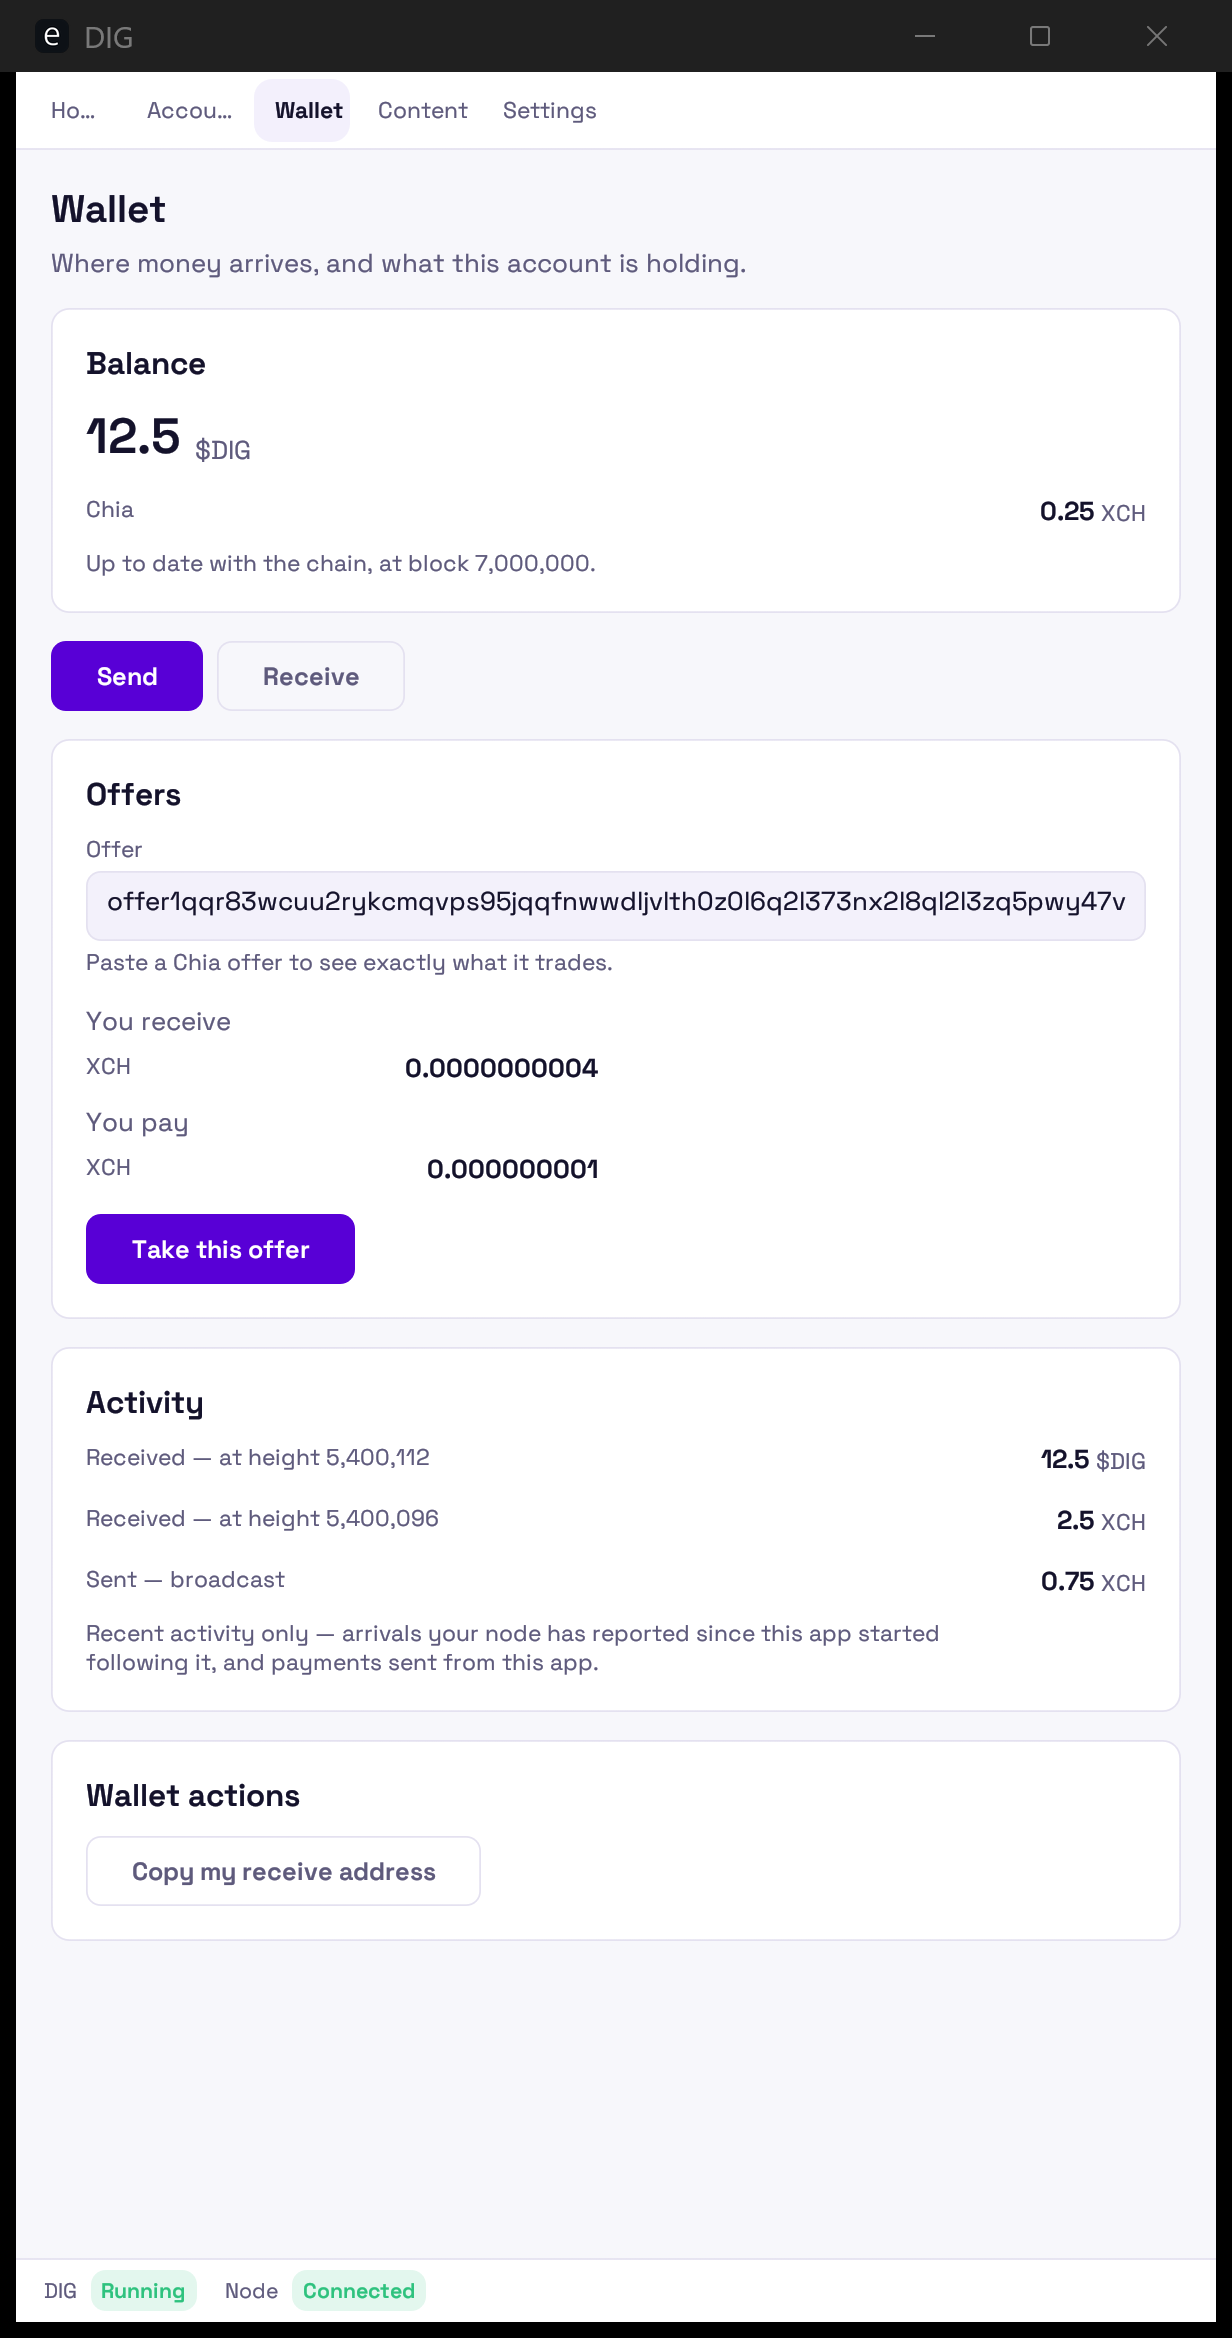
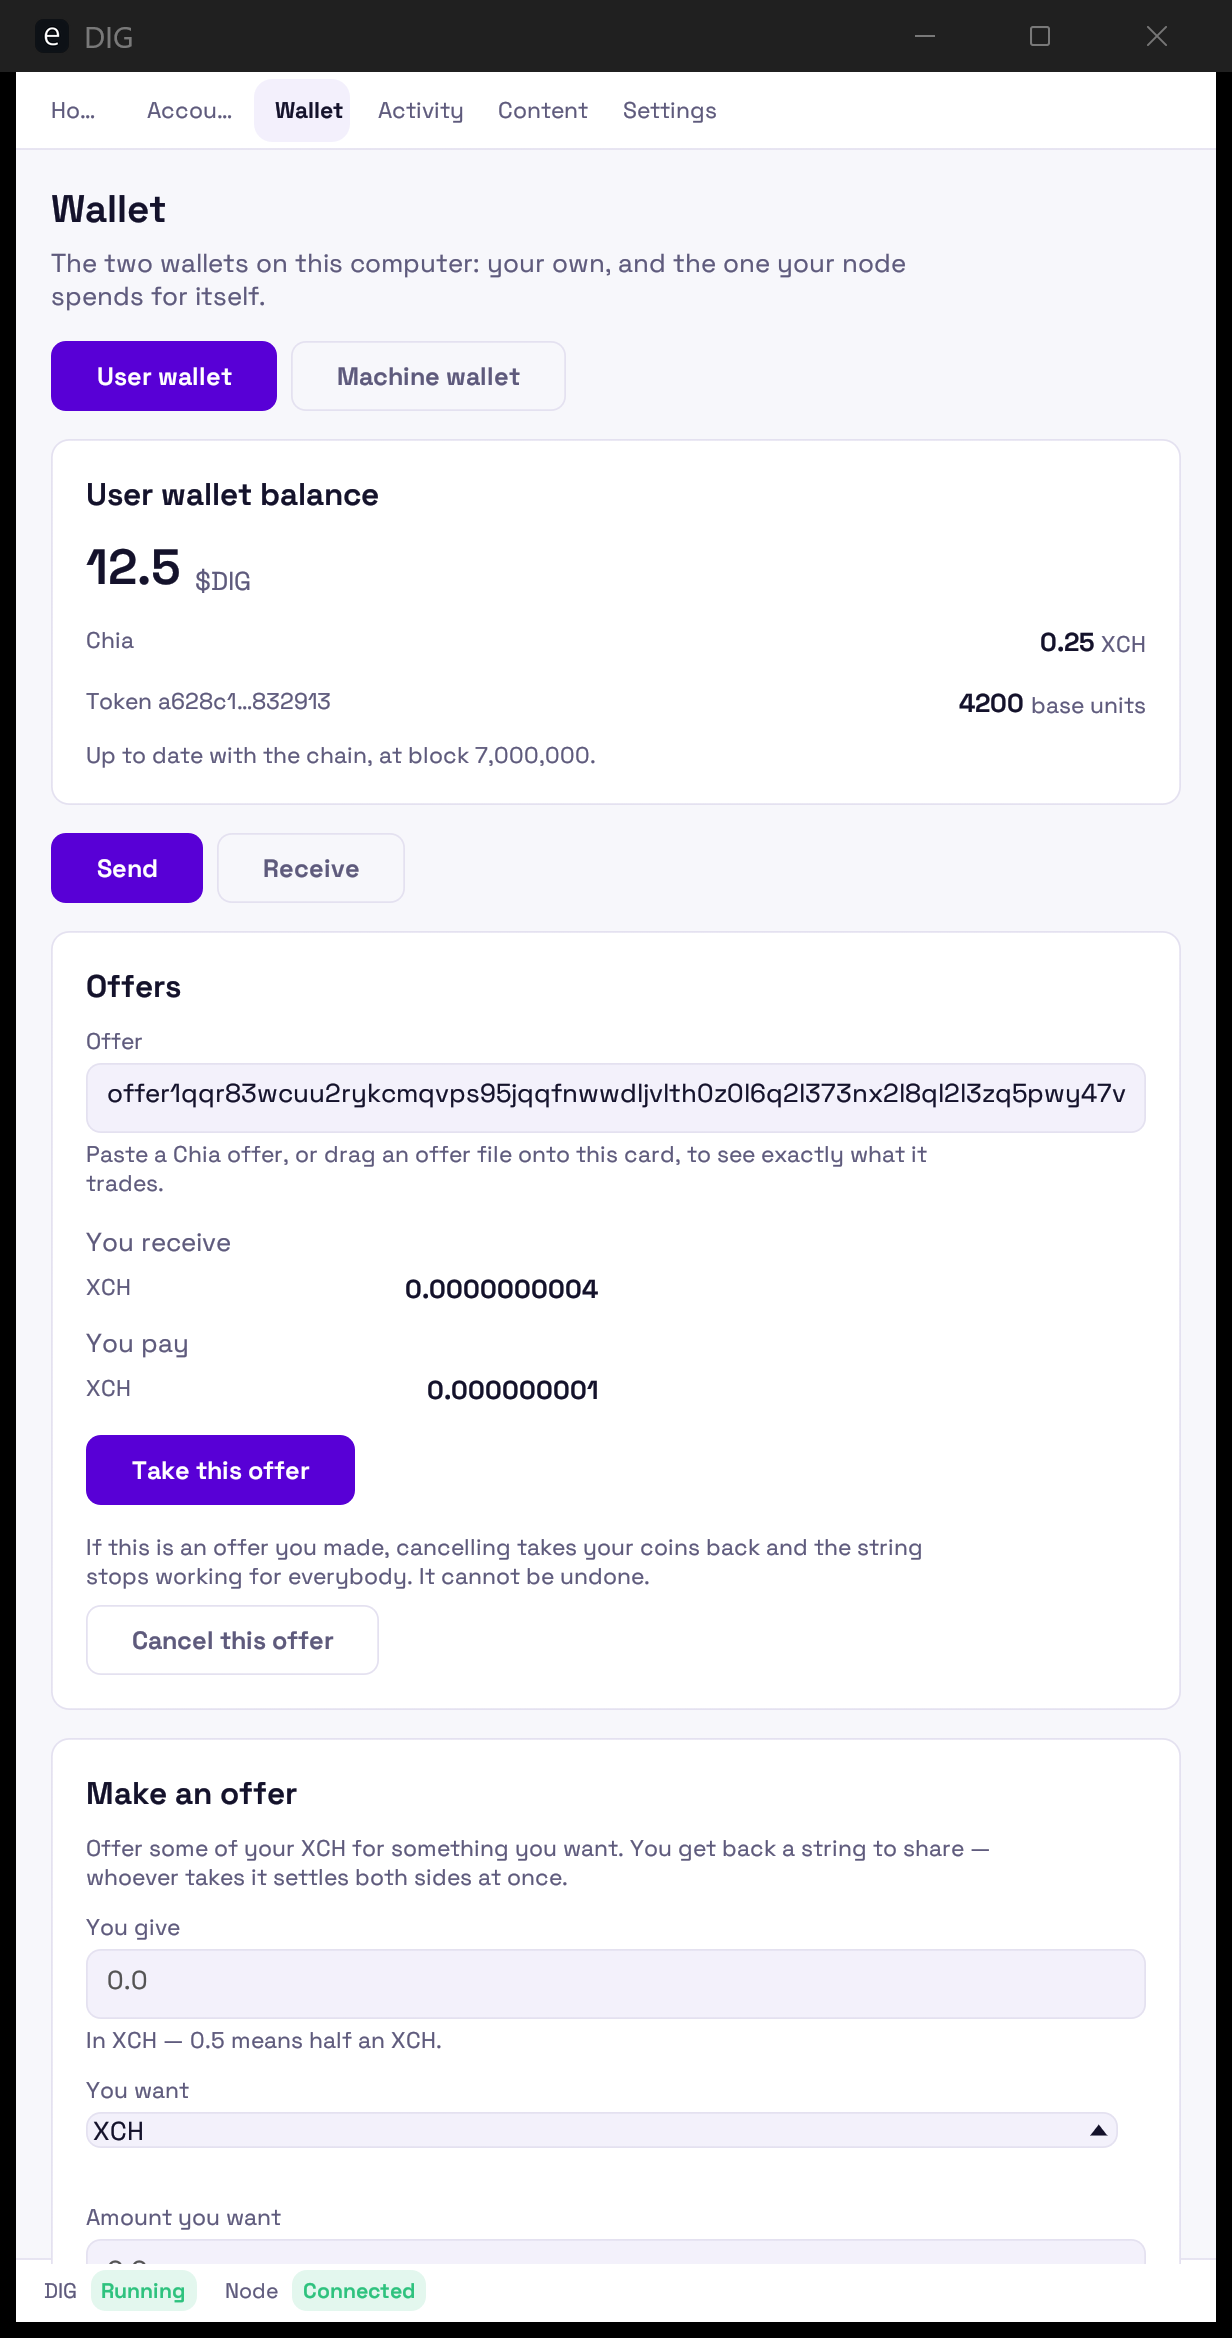
fix(wallet): the lead names both wallets, and no card claims the reader owns the node's address

diff --git a/crates/dig-app-core/src/confirm/gui/window/pane/copy.rs b/crates/dig-app-core/src/confirm/gui/window/pane/copy.rs
@@ -42,7 +42,13 @@ pub(crate) fn lead(tab: TabId) -> &'static str {
             "The DIG Account this computer holds: what it is, how it is protected, and how to \
              change which account this is."
         }
-        TabId::Wallet => "Where money arrives, and what this account is holding.",
+        // Names BOTH wallets, because the tab now holds both (dig-app#339). The old sentence read
+        // "what this account is holding", which is a true statement about the user wallet drawn
+        // above a sub-tab showing the node's — the exact conflation the split exists to end, and it
+        // would have shipped in the one place a reader looks first.
+        TabId::Wallet => {
+            "The two wallets on this computer: your own, and the one your node spends for itself."
+        }
         // Says only what the tab can show. The locked-collateral half of this sentence was removed
         // with the figure itself: `control.spends.list` carries no locked total, so promising one
         // in the tab's own description would advertise something the pane cannot answer
@@ -1274,6 +1280,13 @@ pub(crate) mod wallet {
     /// The label above the machine wallet's address.
     pub(crate) const MACHINE_ADDRESS_LABEL: &str = "Machine wallet address";
 
+    /// The field label INSIDE that card, which the card title above it already qualifies.
+    ///
+    /// Bare `Address` rather than the card's own title repeated: the copyable control prints its
+    /// label beside the value, so passing the qualified name wrote *Machine wallet address* twice,
+    /// once as a heading and once as a field label under it.
+    pub(crate) const MACHINE_ADDRESS_FIELD: &str = "Address";
+
     /// Said while the address is still being read. Not a fault, so it names none.
     pub(crate) const MACHINE_ADDRESS_PENDING: &str = "Reading your node's own wallet address…";
 
@@ -1315,7 +1328,11 @@ pub(crate) mod wallet {
     ///
     /// A sentence, never an empty list: "no coins" is a claim about somebody's money and a read in
     /// flight has not made it.
-    pub(crate) const COINS_PENDING: &str = "Reading the coins at your address…";
+    ///
+    /// Says *this address*, not *your address*: the card is drawn for the MACHINE wallet too
+    /// (dig-app#339), and that address is the node's rather than the reader's. One possessive
+    /// pronoun is enough to make the sentence a claim about the wrong wallet.
+    pub(crate) const COINS_PENDING: &str = "Reading the coins at this address…";
 
     /// What the Coins card says when the node answered and the address holds none.
     ///

diff --git a/crates/dig-app-core/src/confirm/gui/window/pane/wallet.rs b/crates/dig-app-core/src/confirm/gui/window/pane/wallet.rs
@@ -479,7 +479,7 @@ fn machine_address_card(
                                     ui,
                                     at,
                                     t,
-                                    copy::wallet::MACHINE_ADDRESS_LABEL,
+                                    copy::wallet::MACHINE_ADDRESS_FIELD,
                                     &value,
                                     egui::Id::new("dig-window-wallet-copy-machine-address"),
                                     live,
@@ -1976,6 +1976,28 @@ mod tests {
             },
             ..TrayView::default()
         }
+    }
+
+    /// **The Wallet tab's own LEAD describes both wallets, not one of them.**
+    ///
+    /// The lead is drawn by the shell ABOVE the pane, so it does not change when the sub-tab does —
+    /// which means a lead written about one wallet is a false sentence sitting over the other one,
+    /// in the first place a reader looks. It shipped that way for a whole capture: *"what this
+    /// account is holding"* above the Machine wallet sub-tab.
+    ///
+    /// Asserted as a property rather than against the literal, so a future rewording that keeps the
+    /// meaning passes and one that drops a wallet does not.
+    #[test]
+    fn the_wallet_tabs_lead_describes_both_wallets() {
+        let lead = copy::lead(crate::window_model::TabId::Wallet);
+        assert!(
+            lead.contains("two wallets"),
+            "the Wallet lead does not say there are two wallets: {lead:?}"
+        );
+        assert!(
+            !lead.contains("this account is holding"),
+            "the Wallet lead describes the USER wallet as though it were the whole tab: {lead:?}"
+        );
     }
 
     /// **Both wallets are named on the tab, from either sub-tab.**
